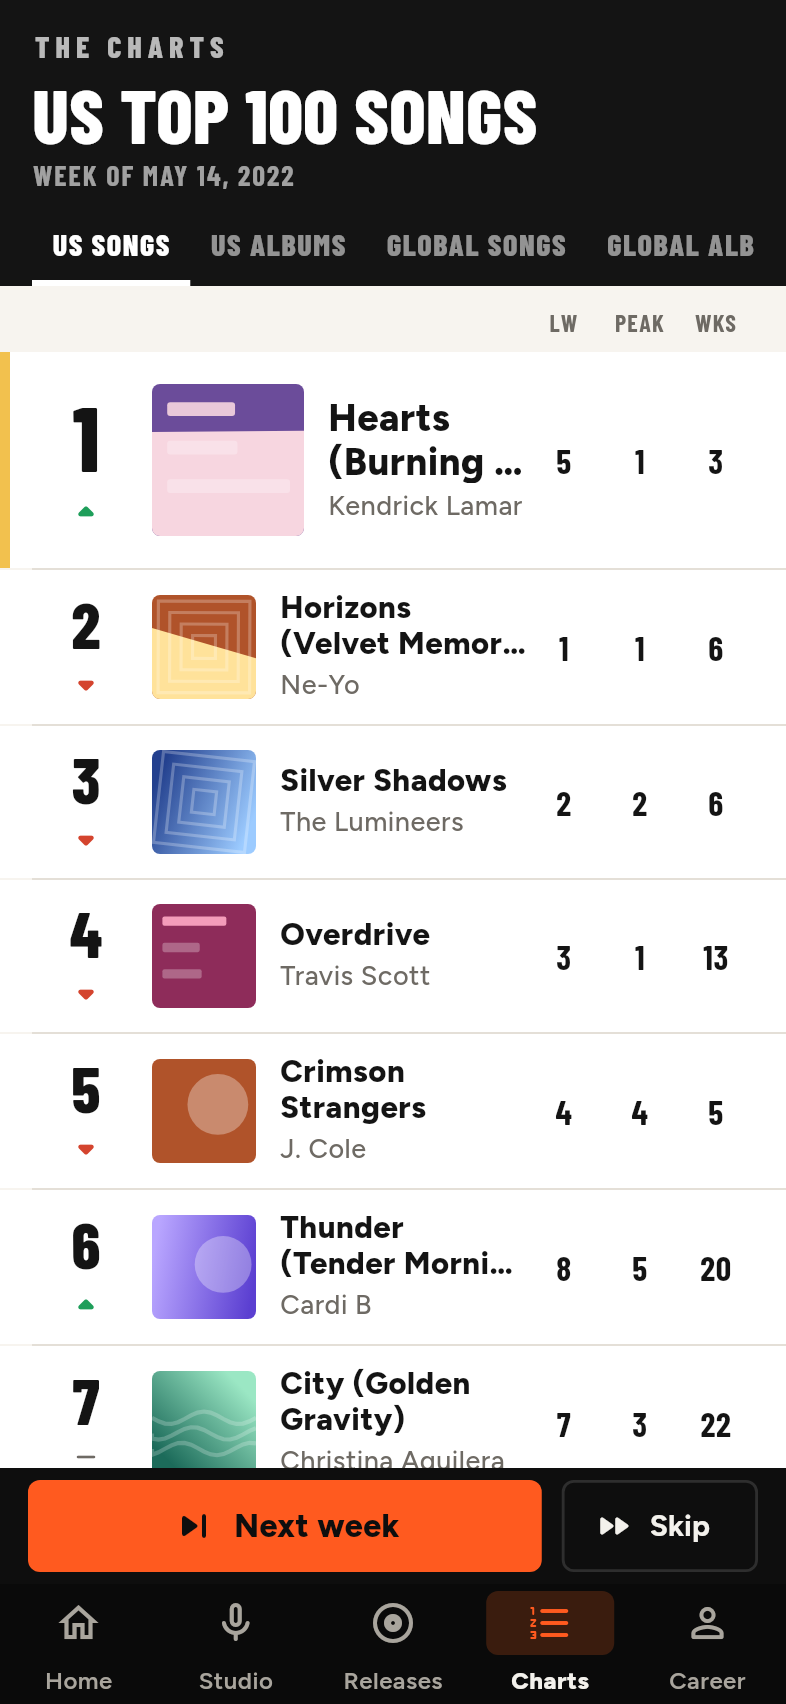
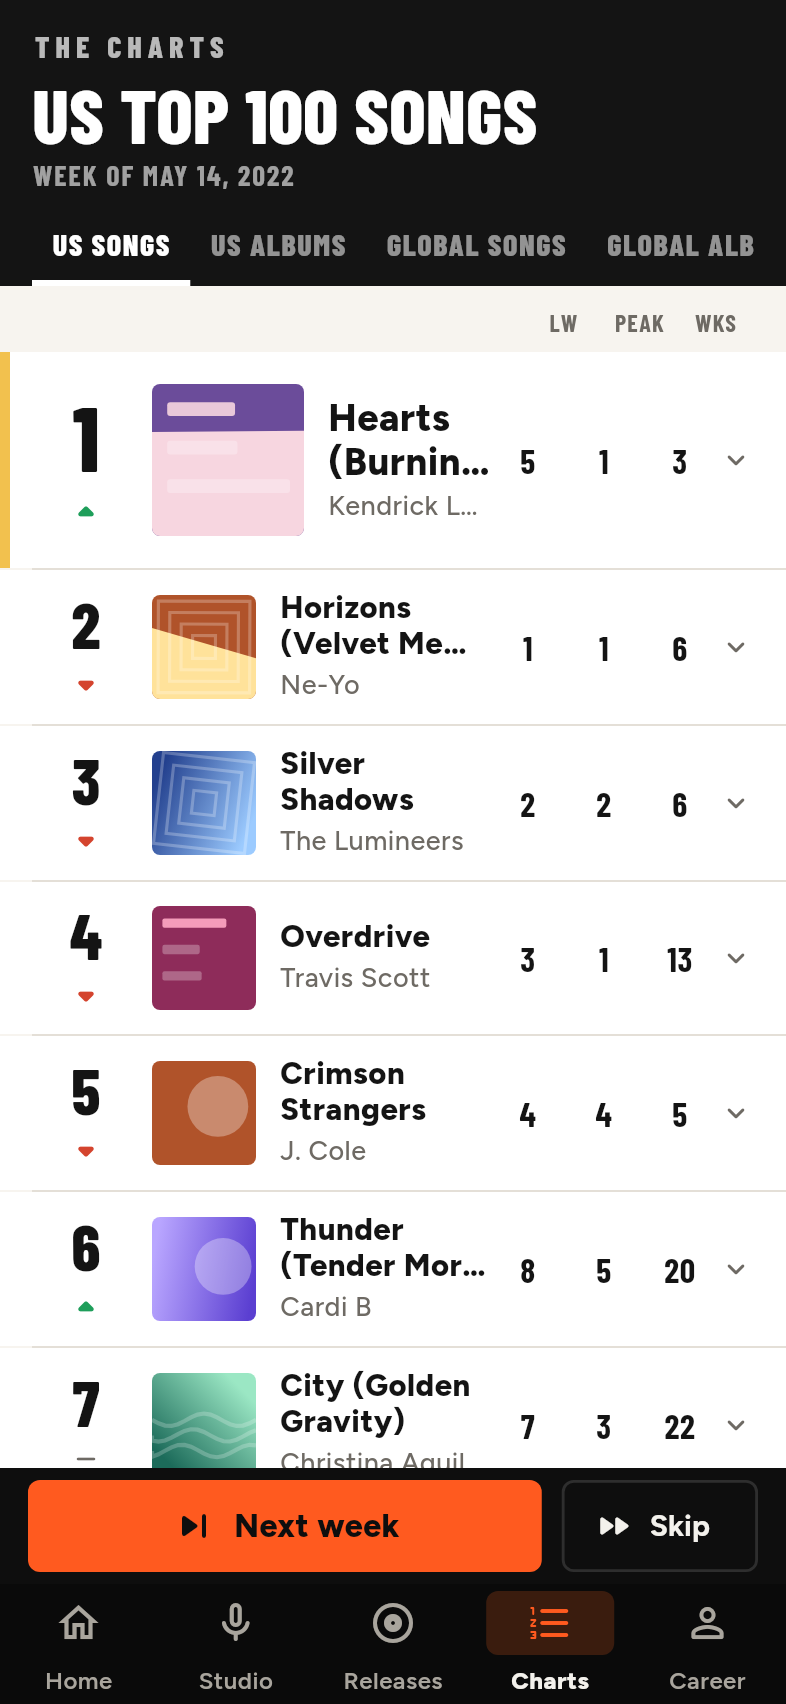
Chart rows open in place with the week's numbers (K89, F52)
Tapping a row on the Billboard-style charts opens its week underneath
(one at a time): songs show chart points, streams, sales and radio
audience; albums units, pure sales, SEA and TEA, all in the chart's
market; a link opens the full page. The player's row uses a warm tint
that fits the new palette.

Claude-Session: https://claude.ai/code/session_01UqeaYiXbKvrTFgHV44HcjP

diff --git a/app/lib/screens/charts_tab.dart b/app/lib/screens/charts_tab.dart
@@ -41,6 +41,9 @@ DateTime chartDate(int week) {
 class _ChartsTabState extends State<ChartsTab> {
   int _chart = Charts.usSongs;
   ChartView? _view;
+
+  /// The row opened under itself (docs K89), by entity id.
+  int? _openId;
   int _loadedRevision = -1;
 
   /// Box office: the year shown (null = all time), its rows, first year.
@@ -71,7 +74,12 @@ class _ChartsTabState extends State<ChartsTab> {
       return;
     }
     final view = await career.read(Cmd.chart(_chart));
-    if (mounted) setState(() => _view = view);
+    if (mounted) {
+      setState(() {
+        _view = view;
+        _openId = null;
+      });
+    }
   }
 
   void _select(int chart) {
@@ -218,11 +226,27 @@ class _ChartsTabState extends State<ChartsTab> {
                         itemCount: view.rows.length,
                         separatorBuilder: (_, __) => const Divider(
                             color: PaperColors.line, height: 1, indent: 16),
-                        itemBuilder: (context, i) => _ChartLine(
-                          row: view.rows[i],
-                          albums: view.def.kind == ChartKind.albums,
-                          onTap: () => _open(view.rows[i]),
-                        ),
+                        itemBuilder: (context, i) {
+                          final r = view.rows[i];
+                          final albums = view.def.kind == ChartKind.albums;
+                          final open = _openId == r.entityId;
+                          return Column(
+                              crossAxisAlignment: CrossAxisAlignment.stretch,
+                              children: [
+                                _ChartLine(
+                                  row: r,
+                                  albums: albums,
+                                  open: open,
+                                  onTap: () => setState(
+                                      () => _openId = open ? null : r.entityId),
+                                ),
+                                if (open)
+                                  _ChartDetails(
+                                      row: r,
+                                      albums: albums,
+                                      onOpen: () => _open(r)),
+                              ]);
+                        },
                       ),
           ),
         ],
@@ -316,7 +340,7 @@ class _ToursBoard extends StatelessWidget {
                       final top = r.rank == 1;
                       return Container(
                         color: r.isPlayer
-                            ? const Color(0xFFEDE7FF)
+                            ? const Color(0xFFFFE9DE)
                             : PaperColors.card,
                         padding: const EdgeInsets.fromLTRB(16, 12, 16, 12),
                         child: Row(children: [
@@ -397,10 +421,16 @@ class _ToursBoard extends StatelessWidget {
 /// One chart position, magazine style.
 class _ChartLine extends StatelessWidget {
   const _ChartLine(
-      {required this.row, required this.albums, required this.onTap});
+      {required this.row,
+      required this.albums,
+      required this.onTap,
+      this.open = false});
   final ChartRow row;
   final bool albums;
   final VoidCallback onTap;
+
+  /// Its details are showing underneath.
+  final bool open;
 
   @override
   Widget build(BuildContext context) {
@@ -434,7 +464,7 @@ class _ChartLine extends StatelessWidget {
         fontSize: 17,
         color: PaperColors.ink);
     return Material(
-      color: r.isPlayer ? const Color(0xFFEDE7FF) : PaperColors.card,
+      color: r.isPlayer ? const Color(0xFFFFE9DE) : PaperColors.card,
       child: InkWell(
         onTap: onTap,
         child: Container(
@@ -507,9 +537,82 @@ class _ChartLine extends StatelessWidget {
                 child: Text(v > 0 ? '$v' : '–',
                     textAlign: TextAlign.center, style: num),
               ),
+            Icon(open ? Icons.expand_less_rounded : Icons.expand_more_rounded,
+                size: 18, color: PaperColors.muted),
           ]),
         ),
       ),
+    );
+  }
+}
+
+/// The week of a chart entry, opened under its row (docs K89): what made
+/// its points in this chart's market, and a way to its full page.
+class _ChartDetails extends StatelessWidget {
+  const _ChartDetails(
+      {required this.row, required this.albums, required this.onOpen});
+  final ChartRow row;
+  final bool albums;
+  final VoidCallback onOpen;
+
+  @override
+  Widget build(BuildContext context) {
+    final l = context.l10n;
+    final fmt = context.fmt;
+    final r = row;
+    final stats = <(String, double)>[
+      if (albums) ...[
+        (l.chartStatUnits, r.weekValue),
+        (l.chartStatPure, r.pure),
+        (l.chartStatSea, r.sea),
+        (l.chartStatTea, r.tea),
+      ] else ...[
+        (l.chartStatPoints, r.points),
+        (l.chartStatStreams, r.streams),
+        (l.chartStatSales, r.sales),
+        (l.chartStatRadio, r.radio),
+      ],
+    ].where((x) => x.$2 >= 1).toList();
+    return Container(
+      color: const Color(0xFFF2EFE8),
+      padding: const EdgeInsets.fromLTRB(16, 10, 16, 4),
+      child: Column(crossAxisAlignment: CrossAxisAlignment.start, children: [
+        Text(l.chartThisWeek.toUpperCase(),
+            style: const TextStyle(
+                fontFamily: AppFonts.condensed,
+                fontWeight: FontWeight.w700,
+                fontSize: 12,
+                letterSpacing: 0.8,
+                color: PaperColors.muted)),
+        const SizedBox(height: 6),
+        Wrap(spacing: 20, runSpacing: 8, children: [
+          for (final (label, v) in stats)
+            Column(
+                mainAxisSize: MainAxisSize.min,
+                crossAxisAlignment: CrossAxisAlignment.start,
+                children: [
+                  Text(fmt.compact(v),
+                      style: const TextStyle(
+                          fontFamily: AppFonts.condensed,
+                          fontWeight: FontWeight.w800,
+                          fontSize: 22,
+                          height: 1.1,
+                          color: PaperColors.ink)),
+                  Text(label,
+                      style: const TextStyle(
+                          fontSize: 12, color: PaperColors.muted)),
+                ]),
+        ]),
+        Align(
+          alignment: Alignment.centerRight,
+          child: TextButton.icon(
+            style: TextButton.styleFrom(foregroundColor: PaperColors.ink),
+            onPressed: onOpen,
+            icon: const Icon(Icons.arrow_forward_rounded, size: 18),
+            label: Text(albums ? l.chartOpenAlbum : l.chartOpenSong),
+          ),
+        ),
+      ]),
     );
   }
 }

diff --git a/packages/game/lib/src/views.dart b/packages/game/lib/src/views.dart
@@ -486,6 +486,13 @@ class ChartRow {
   ChartRow({
     required this.albumId,
     required this.weekValue,
+    this.points = 0,
+    this.streams = 0,
+    this.sales = 0,
+    this.radio = 0,
+    this.pure = 0,
+    this.sea = 0,
+    this.tea = 0,
     required this.position,
     required this.lastPos,
     required this.peak,
@@ -504,6 +511,12 @@ class ChartRow {
   /// This week's streams (song charts) or units (album charts) in the
   /// chart's market.
   final double weekValue;
+
+  /// The week in the chart's market, opened under the row (docs K89):
+  /// chart points; for a song its streams, sales (downloads and CD
+  /// singles) and radio audience; for an album its pure sales and the
+  /// units from streams (SEA) and from track sales (TEA).
+  final double points, streams, sales, radio, pure, sea, tea;
 
   /// 0 = new or re-entry this week.
   final int lastPos;
@@ -541,7 +554,42 @@ class ChartView {
     final artistId = kind == EntityKind.song
         ? w.songs[id].primaryArtistId
         : w.albums[id].artistId;
+    final artist = w.artists[artistId];
+    // A by-region number as the chart's market sees it.
+    double inMarket(double Function(int r) byRegion) => switch (market) {
+          ChartMarket.us => CountryShares.usOfNorthAmerica(artist.homeCountry) *
+              byRegion(Region.northAmerica.index),
+          ChartMarket.uk => CountryShares.ukOfEurope(artist.homeCountry) *
+              byRegion(Region.europe.index),
+          _ => byRegion(0) + byRegion(1) + byRegion(2),
+        };
+    double streams = 0, sales = 0, radio = 0, pure = 0, sea = 0, tea = 0;
+    if (kind == EntityKind.song) {
+      final s = w.songs[id];
+      final wr = s.weekRegion;
+      streams = w.songWeekStreamsIn(s, market);
+      sales = inMarket((r) =>
+          (wr == null ? 0 : wr[regionCount + r]) +
+          s.weekPhysical * artist.regionShare[r]);
+      radio = inMarket((r) => s.weekRadio * artist.regionShare[r]);
+    } else {
+      final al = w.albums[id];
+      final wr = al.weekRegion;
+      pure = inMarket((r) => wr[r]);
+      final units = inMarket((r) => wr[regionCount + r]);
+      // SEA and TEA are kept worldwide; the market gets its share.
+      final share = al.weekUnits > 0 ? units / al.weekUnits : 0.0;
+      sea = al.weekSea * share;
+      tea = al.weekTea * share;
+    }
     return ChartRow(
+      points: points,
+      streams: streams,
+      sales: sales,
+      radio: radio,
+      pure: pure,
+      sea: sea,
+      tea: tea,
       albumId: kind == EntityKind.song ? coverAlbumOf(w, w.songs[id]) : id,
       weekValue: kind == EntityKind.song
           ? w.songWeekStreamsIn(w.songs[id], market)

diff --git a/app/test/screenshots_test.dart b/app/test/screenshots_test.dart
@@ -12,6 +12,7 @@ import 'package:music_career_sim/core/commands.dart';
 import 'package:music_career_sim/core/event_lines.dart';
 import 'package:music_career_sim/core/scope.dart';
 import 'package:music_career_sim/screens/charts_tab.dart';
+import 'package:music_career_sim/widgets/art.dart';
 import 'package:music_career_sim/widgets/celebration.dart';
 import 'package:music_career_sim/widgets/media_tile.dart';
 
@@ -168,8 +169,13 @@ void main() {
     await tester.pumpAndSettle();
     await tab(tester, 'Charts');
     await shot(tester, '07_charts_songs');
+    // A row opens its week underneath (K89).
+    await tester.tap(find.byType(CoverArt).at(1));
+    await shot(tester, '07b_chart_row_open');
     await tester.tap(_ci('US ALBUMS'));
     await shot(tester, '08_charts_albums');
+    await tester.tap(find.byType(CoverArt).first);
+    await shot(tester, '08c_album_row_open');
 
     await tab(tester, 'Career');
     await shot(tester, '15_career');

diff --git a/app/test/app_flow_test.dart b/app/test/app_flow_test.dart
@@ -73,6 +73,10 @@ void main() {
     // the artist's Streamify page.
     await tester.tap(find.byType(CoverArt).at(1));
     await tester.pumpAndSettle();
+    // The row opens its week first (K89); then the page.
+    expect(_ci('Streams'), findsWidgets);
+    await tester.tap(_ci('Song page'));
+    await tester.pumpAndSettle();
     await tester.scrollUntilVisible(_ci('Week by week on the charts'), 300,
         scrollable: find.byType(Scrollable).first);
     expect(_ci('Week by week on the charts'), findsOneWidget);

diff --git a/tools/l10n/gen_arb.py b/tools/l10n/gen_arb.py
@@ -808,6 +808,17 @@ k('platformsLater','Music platforms start arriving in 2003.','Müzik platformlar
 k('celebrateNumberOne','Number one!','Bir numara!')
 k('celebrateFirstChart','Your first chart entry!','İlk liste girişin!')
 k('share','Share','Paylaş')
+k('chartThisWeek','This week','Bu hafta')
+k('chartStatPoints','Chart points','Liste puanı')
+k('chartStatStreams','Streams','Stream')
+k('chartStatSales','Sales','Satış')
+k('chartStatRadio','Radio audience','Radyo dinleyicisi')
+k('chartStatUnits','Units','Ünite')
+k('chartStatPure','Pure sales','Saf satış')
+k('chartStatSea','From streams','Stream\'lerden')
+k('chartStatTea','From track sales','Şarkı satışlarından')
+k('chartOpenSong','Song page','Şarkı sayfası')
+k('chartOpenAlbum','Album page','Albüm sayfası')
 k('kindSoloHint','Singles travel: more viral moments and more new listeners for every single.','Single\'lar yayılır: daha çok viral an, her single\'a daha çok yeni dinleyici.')
 k('kindBandHint','Albums and the road: fans play whole records, tours sell more tickets and merch, and the fanbase lasts.','Albümler ve yollar: hayranlar albümü baştan sona dinler, turneler daha çok bilet ve merch satar, hayranlar uzun süre kalır.')
 k('kindVocalGroupHint','A collecting fandom: every edition sells, fans come fast and stay devoted, big merch and arenas. Members bring their own drama.','Koleksiyoncu bir hayran kitlesi: her baskı satar, hayranlar hızlı gelir ve bağlı kalır, merch ve arenalar büyük. Üyeler kendi dramalarını getirir.')

diff --git a/docs/README.md b/docs/README.md
@@ -115,6 +115,7 @@ Bu kararlar alınmıştır; değiştirmek için bilinçli bir revizyon gerekir.
 | K86 | **Diskografi ve kapaklı satış grafiği (Emir: Groove Journey'deki gibi, "en çok istediğim şey bu"):** Kariyer → Diskografi. Üstte paylaşılabilir satış grafiği: sanatçı fotoğrafı, "X'İN ALBÜM SATIŞLARI", toplam ünite, yıl aralığı ve oyun modu; her albüm bir çubuk, çubuğu albümün kapağı doldurur (yüklenen kapak ya da oyunun ürettiği), üstünde ünite ve ad. Çubuklar çıkış sırasıyla; ekrana sığacak kadar daralır (64 → 40 piksel), uzun kariyer yana kayar, paylaşılan görsel her çubuğu içerir. Açık renkli kart (temadan bağımsız, basılı liste gibi). "Grafiği paylaş" PNG üretir (3× çözünürlük) ve paylaşım menüsünü açar. Single'lar sekmesi aynı grafiği en büyük 15 single ile çizer. Altta her çıkış: kapak, yıl, tür, parça sayısı, ABD zirvesi (#1'se kaç hafta, ABD'de yoksa başka listedeki zirvesi), ilk hafta, toplam ünite ve ABD sertifikası (Altın/Platin/Elmas); dokununca albüm/şarkı ekranı. Groove Journey'den farklı olarak "kopya" yerine ünite ve liste zirvesi gösterilir. |
 | K87 | **Solo, grup ve vokal grubu farklı oynar (F38):** Türler farklı güçlere sahip, hiçbiri cezalı değil. Solo: viral olma ×1,35, single'ların yeni dinleyici erişimi ×1,12. Grup: hayranlar albümü dinler/satın alır ×1,3, koleksiyon baskıları ×1,15, turne talebi ×1,35, merch ×1,2, hayran kaybı ×0,8 (eskiden de vardı). Vokal grubu: koleksiyon baskıları ×1,8, hayran kazanma ×1,25, albüm ×1,1, turne ×1,15, merch ×1,5, bağlılık ×1,4 (eskiden de vardı). Rakipler de türlerine göre aynı güçleri alır. Grup hayatı (oyuncu grubuysa, fırsat olarak): **Solo albüm** — bir üye solo çıkarmak ister: destekle (dinleyici +%3, hayran, heyecan; −20 yaratıcılık) / beklemesini iste (bağlılık −0,02). **Grupta gerginlik** — bir üye grupla kavgalı: oturup konuşun (−25 yaratıcılık, bağlılık +0,01) / geçmesini bekle (%50 geçer, yoksa hayranların %3'ü gider) / herkesin önünde konuşun (heyecan +0,12, hayranların %1'i gider). **Dönüş:** 2 yıldan uzun aradan sonraki ilk çıkış heyecan getirir: grupta (reunion) 0,35 × (0,5 + fame), soloda 0,2 ×; grupta bağlılık +0,03 (rakipler dahil). Yeni kariyer ekranında seçilen türün güçleri yazar. Ölçüm (2016, yükselen yıldız, aynı single ağırlıklı strateji, turnesiz, 3. yıl): solo $64,5M, 7,9M hayran; grup $53,3M, 7,2M; vokal grubu $50,9M, 8,0M; hepsi yılda 2–3 #1. Grubun ve vokal grubunun asıl güçleri (turne, albüm, koleksiyon baskıları) bu ölçümde kullanılmadı. Yıllık turne gişe listesi artık oyuncunun turnelerini ilk 25'in dışında da gerçek sırasıyla gösterir. |
 | K88 | **Jenerik olmayan görünüm: mürekkep ve kâğıt (Emir: "her şey çok yumuşak, generic AI design görünüyor"; sonra "aşırı keskin istemiyorum ama fazla yumuşak da olmasın"):** Lacivert zemin, pastel lila/pembe/şeftali geçişleri ve hap şeklindeki düğmeler kalktı. Varsayılan palet **Mürekkep**: neredeyse siyah zemin (#0E0E0E), sıcak beyaz yazı, tek vurgu rengi sinyal turuncusu (#FF5A1F), düz ve güçlü kategori renkleri; açık tema **Kâğıt**: gazete kâğıdı beyazı, siyah yazı, aynı turuncu. Hiçbir yerde renk geçişi yok (eski imza geçişi düz vurguya döndü, düğmelerin parıltı gölgesi kalktı). Köşeler varsayılan olarak 6 piksel (kartlar, düğmeler, sekmeler); yuvarlak "yumuşak" stil Ayarlar'da duruyor; ayar yeni anahtarla saklandığı için herkes bir kez yeni varsayılana geçer. Sayfa başlıkları dar, kalın yazı (Barlow Condensed). Satış grafiği kartı düz kâğıt rengi. Testler büyük/küçük harf duyarsız metin arar (etiketler bu stilde büyük harf). |
+| K89 | **Liste satırı yerinde açılır (Emir: "şarkıya tıklayınca sayfasına atmadan alta küçük bir alan açılsın; albümde de"):** Billboard tarzı listelerde (ABD/İngiltere/global şarkı ve albüm) satıra dokununca altında o haftanın rakamları açılır, tekrar dokununca kapanır; aynı anda tek satır açık. Şarkı: liste puanı, stream, satış (indirme + CD single), radyo dinleyicisi. Albüm: ünite, saf satış, stream'lerden (SEA), şarkı satışlarından (TEA). Rakamlar listenin pazarına göre (ABD listesinde ABD); sıfır olanlar gösterilmez (ör. 2002'de stream). "Şarkı sayfası / Albüm sayfası" tam sayfayı açar. Satırın sağında aç/kapa oku; oyuncunun satırı yeni temaya uygun sıcak turuncu tonda. |
 | K82 | **Her platformda kendi profilin (F48):** Platform ekranlarının üstünde "Senin sayfan": fotoğraf (Streamify'da Streamify fotoğrafı), ad, mavi tik (fame %10+ veya 100K+ takipçi), takipçi sayısı (ViewTube'da abone), streaming uygulamalarında aylık dinleyici, bu haftaki rakam ve en büyük şarkın. Takipçiler sadık hayran ve sıradan dinleyiciden hesaplanır, platform açıldıktan sonra 4 yılda tam oturur: Streamify %85 hayran + %5 dinleyici; Fruit Music %25 + %2 (Kuzey Amerika'da daha çok); ViewTube %60 + %6 (müzik videosu sayısıyla ×0,8–1,2); NoiseCloud %10 + %0,8; TikTak %25 + %6 (karizmayla ×0,6–1,4). Fruit Tunes indirme mağazası, takipçisi yok. Streamify sanatçı sayfasındaki takipçi sayısı da aynı kuraldan geliyor (rakipler dahil). |
 | K23 | ChatGPT planındaki ekranlar, rekorlar, kampanyalar, finans, bildirimler, ödüller, Kolay mod ve 10 performans kuralı dokümanlara taşındı. |
 

diff --git a/docs/feedback.md b/docs/feedback.md
@@ -114,6 +114,7 @@ Kaynak: **E** = Emir'in notu, **T** = Claude'un test oyunu. Öncelik: **1** = ö
 | F49 | **SZA'nın SOS'u 200 haftadır Billboard 200'de, hiç Top 25'ten çıkmadı — "bizim oyunu oynuyor"** (Emir) → "ölç", "yap". | ✅ K85: eski albümler listeyi tıkıyordu (%62–66, bir sanatçının 13 albümü); katalog artık hitlerde toplanıyor ve herkesinki sönüyor. Eski albüm payı %41–49, hitli albümler 100–257 hafta kesintisiz Top 25. |
 | F50 | **Groove Journey'deki gibi diskografi ve tüm kariyer satışını kapaklı çubuklarla gösteren, oyuncunun görsel olarak üretip paylaşabileceği grafik** (Emir: "en çok istediğim şey bu"). | ✅ K86: Kariyer → Diskografi; kapaklı satış grafiği + "Grafiği paylaş" (PNG), albüm/single listesi zirve, ilk hafta, toplam ve sertifikayla. |
 | F51 | **Her şey çok yumuşak, generic AI tasarımı gibi; daha keskin olsun ama aşırı değil** (Emir). | ✅ K88: mürekkep/kâğıt paleti, tek turuncu vurgu, renk geçişi yok, 6 px köşeler, dar başlıklar. |
+| F52 | **Billboard tarzı listede şarkıya/albüme tıklayınca sayfaya gitmeden altta stream, satış, radyo gibi rakamlar açılsın** (Emir). | ✅ K89: satır yerinde açılır; şarkıda puan/stream/satış/radyo, albümde ünite/saf satış/SEA/TEA; sayfa bağlantısı. |
 
 ## Test oyunu 3 — Gerçek kariyer tekrarı (JT, Gerçekçi mod)
 
